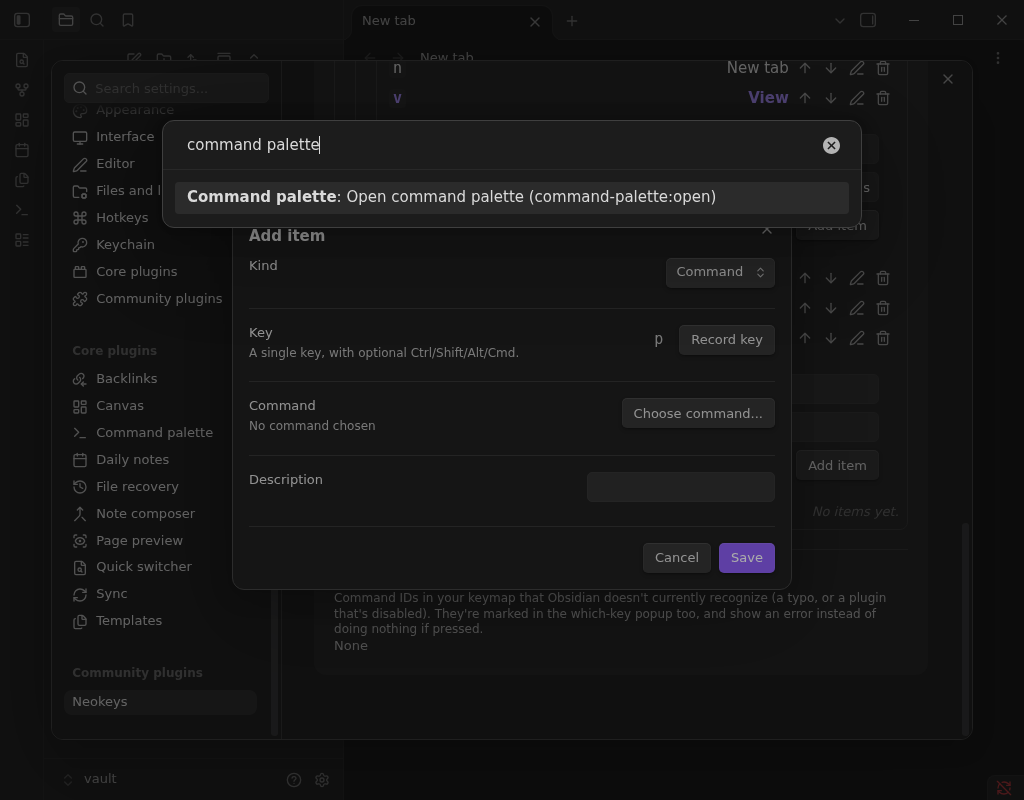
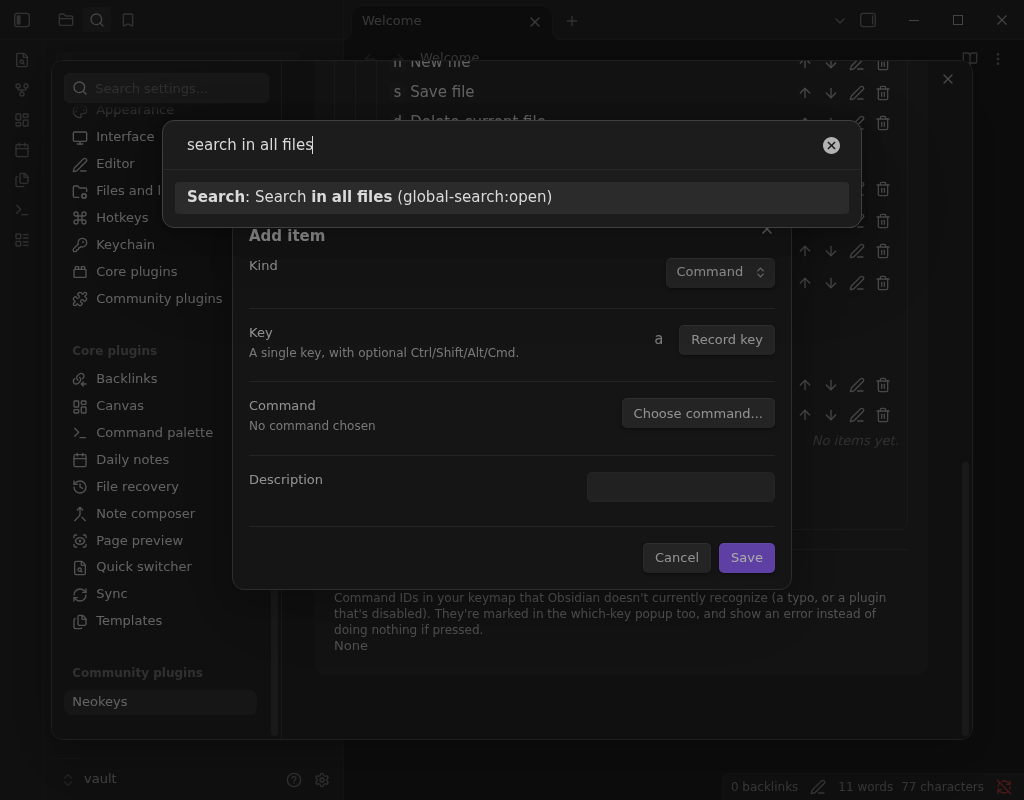
docs: re-shoot Phase 2 screenshots with the reworked layout and realistic data
Replaces the e2e screenshot set after the tree-editor layout rework:
new captures show the fixed row/group layout and which-key badge
position, use a realistic 'Search' group with real Obsidian commands
instead of 'E2E Group'/'YAML add' test fixtures, and add a clean note
with no duplicated heading. Also adds light-theme captures for the
group Edit dialog and the invalid-command which-key row, and embeds
the Edit dialog screenshot in the README next to the tree overview.

diff --git a/README.md b/README.md
@@ -79,6 +79,8 @@ overwriting the tree.
 
 ![Tree editor showing a nested keymap, with move/edit/delete controls per item](docs/screenshots/phase2/tree-editor-overview-dark.png)
 
+![Tree editor's Edit dialog for a group, with its title and description editable in full width](docs/screenshots/phase2/tree-editor-group-edit-dialog-light.png)
+
 The which-key popup shows a group's entries in the order you arrange them in the tree editor (or
 write them in the YAML's `items`) - reordering an item moves it in the popup too, not just in the
 editor. Within that stored order, groups are always listed before files, and files before
